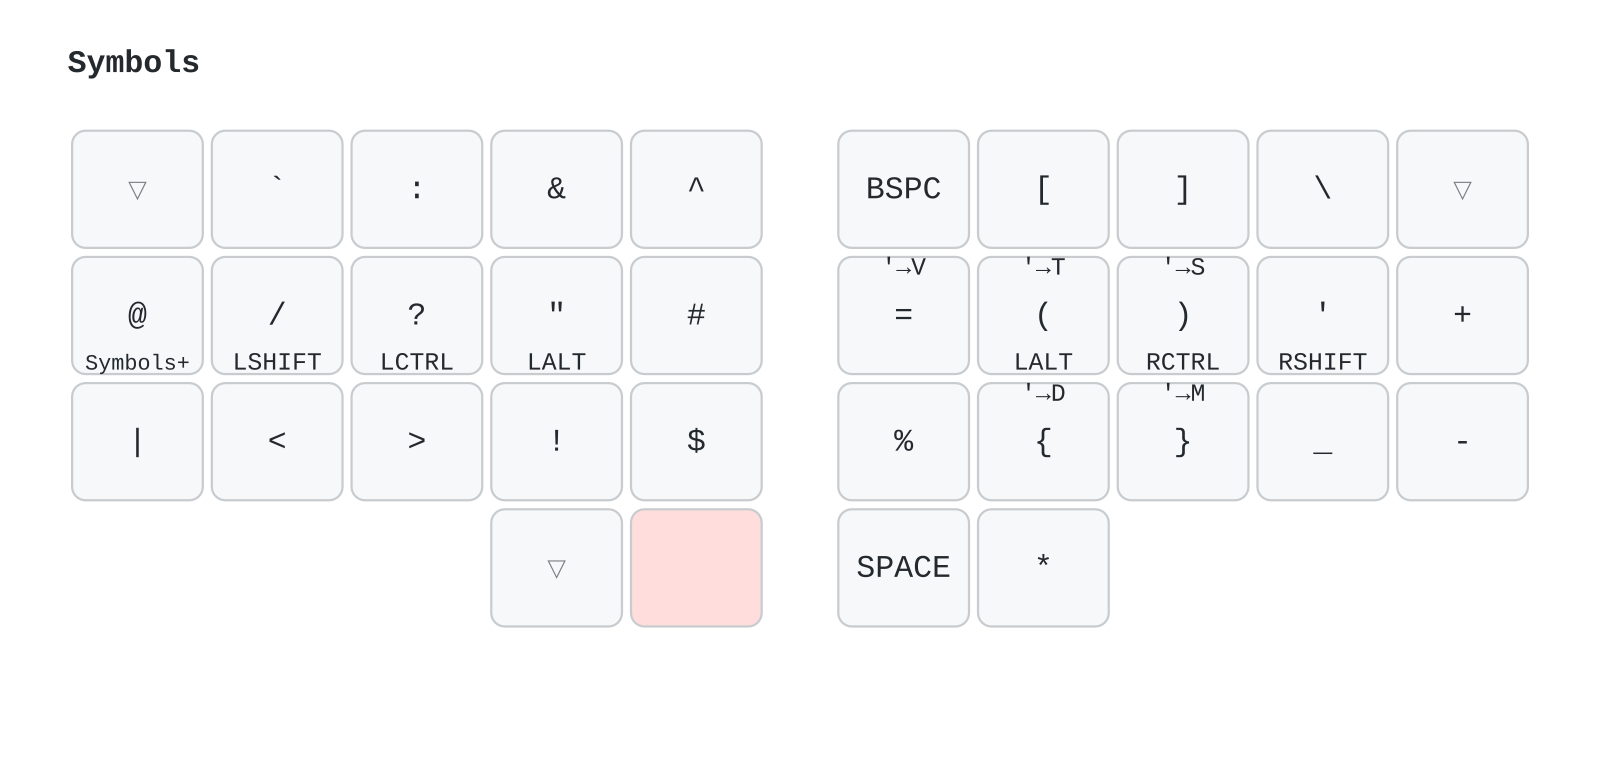
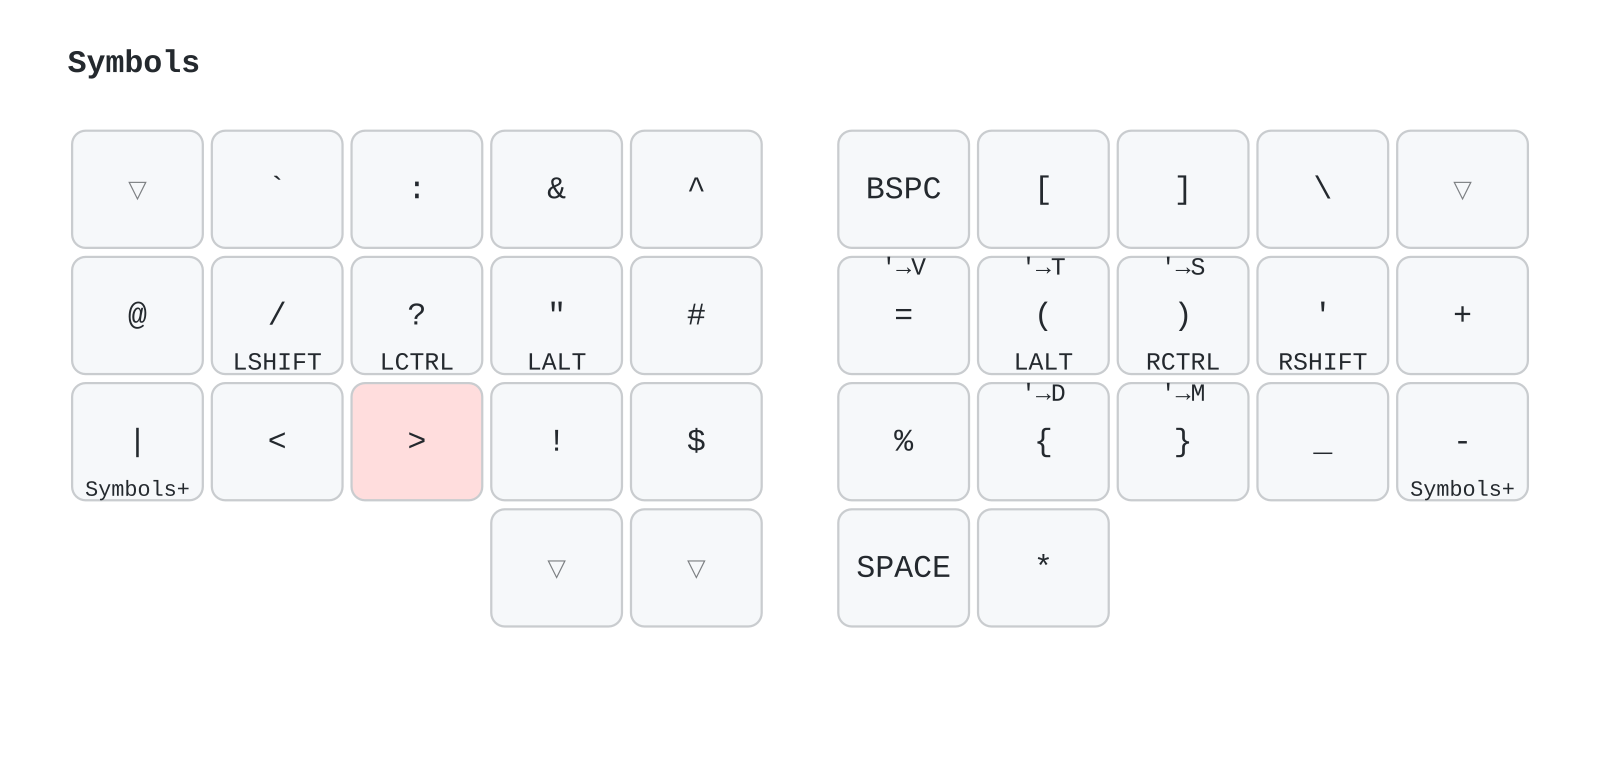
Hold Symbols on the middle fingers, M and Ä, instead of P and K
M (pos 22) and Ä (pos 27) are now &lt L_SYM layer-taps. M loses its
Ctrl+Alt hold, and AS_P and AS_K become plain adaptive keys with no
hold. The Voyager in Oryx still holds Symbols on P and K, so compare
lists these four keys until Oryx is changed to match.

diff --git a/tools/sync-oryx.py b/tools/sync-oryx.py
@@ -283,7 +283,7 @@ EQUIVALENT = {
     "LT_TH": "lt", "LT_SPC": "lt",           # thumb layer-taps
     # Adaptive keys on Graphmod: compare as the default binding.
     "AS_E": "mt LSHIFT E", "AS_R": "mt LSHIFT R", "AS_O": "kp O", "AS_D": "kp D", "AS_C": "kp C",
-    "AS_Q": "kp Q", "AS_P": "lt 1 P", "AS_K": "lt 1 K", "AS_W": "lt 9 W",
+    "AS_Q": "kp Q", "AS_P": "kp P", "AS_K": "kp K", "AS_W": "lt 9 W",
     # One-way adaptive keys on Alpha+: compare as the default binding.
     "AK_X": "mt LCTRL X", "AK_P": "mt LS(P) P", "AK_S": "mt LSHIFT S",
     "AK_D": "kp D", "AK_T": "mt LCTRL T", "AK_A": "kp A",

diff --git a/CLAUDE.md b/CLAUDE.md
@@ -69,7 +69,7 @@ Defined in `config/kibard.keymap`. Layer indices:
 | # | Name | Activation |
 |---|------|-----------|
 | 0 | Graphmod (default) | base layer |
-| 1 | Symbols | left thumb hold (`LT_TH L_SYM ESC`, pos 31), or `AS_P` / `AS_K` hold on Graphmod (`lt L_SYM`, pos 21, 28) |
+| 1 | Symbols | left thumb hold (`LT_TH L_SYM ESC`, pos 31), or M / Ä hold on Graphmod (`lt L_SYM`, pos 22, 27) |
 | 2 | Symbols+ | `HML_LT L_SYMP SE_PIPE` / `HMR_LT L_SYMP SE_MINUS` hold on Symbols (pos 20, 29) |
 | 3 | Numpad | left thumb hold (`LT_SPC L_NUM SPACE`, pos 30), or `to L_NUM` from Navigate |
 | 4 | Mouse | `HML_LT L_MOUSE N` hold (pos 10) |
@@ -142,7 +142,7 @@ expands one-argument `#define`s like this before reading bindings.
 different letter. Two are swaps `[X, Y, Z]`, where right after X keys Y and Z
 trade places (a pair of adaptive keys pointing at each other): `[U, E, O]`
 and `[S, D, C]`. The rest are one-way: `HD → HÅ`, `HK → HJ`, `GK → GY`, `KC → KE`, `KP → KO`, `PK → PO`, `PC → PR`, `FC → FL`, `FQ → FJ`, `OQ → OA`, `GW → GS`, `KW → KU`, `NR → NN`, `Esc K → Esc .`, and C repeats L or M (`LC → LL`, `MC → MM`).
-They live on `AS_E`, `AS_R`, `AS_O`, `AS_D`, `AS_C`, `AS_Q`, `AS_P`, `AS_K` and `AS_W` (which keep their layer holds: Symbols on P and K, BT on W). A rule fires only while typing: the
+They live on `AS_E`, `AS_R`, `AS_O`, `AS_D`, `AS_C`, `AS_Q`, `AS_P`, `AS_K` and `AS_W` (`AS_W` keeps its BT layer hold). A rule fires only while typing: the
 trigger must be pressed less than `AS_IDLE_MS` (400 ms) earlier, with no modifier
 other than Shift (`strict-modifiers` plus `LS`/`RS` triggers via `AS_TRIGGER`),
 so shortcuts like Ctrl+F don't trigger it. Adapted output is a plain `&kp` with
@@ -192,10 +192,12 @@ from Oryx's public GraphQL API, folds the Voyager's 52 keys onto the Kibård's
 `tools/oryx-snapshot.json` is the last-synced state; it is the diff's baseline
 and belongs in the commit that ports the change.
 
-Oryx can't bind a key on the layer that its own hold activates, so on the
-Voyager Symbols has `&trans` under P and K (pos 21, 28), which hold Symbols. The
-Kibård keeps `<` and `_` there on purpose: `compare` lists them, and a sync
-should leave them alone.
+The Kibård holds Symbols on the middle fingers, M and Ä (pos 22, 27), instead
+of the Voyager's P and K (pos 21, 28), and M has no Ctrl+Alt hold. Until Oryx
+is changed to match, `compare` lists these keys, and a sync should leave them
+alone. The Kibård also keeps `<` and `_` on Symbols at pos 21 and 28, where
+Oryx has `&trans`, because Oryx can't bind a key on the layer that its own hold
+activates.
 
 Two tables in the script encode the port and are asserted on every run, so a
 rename or reorder in Oryx fails loudly instead of diffing the wrong layers:
